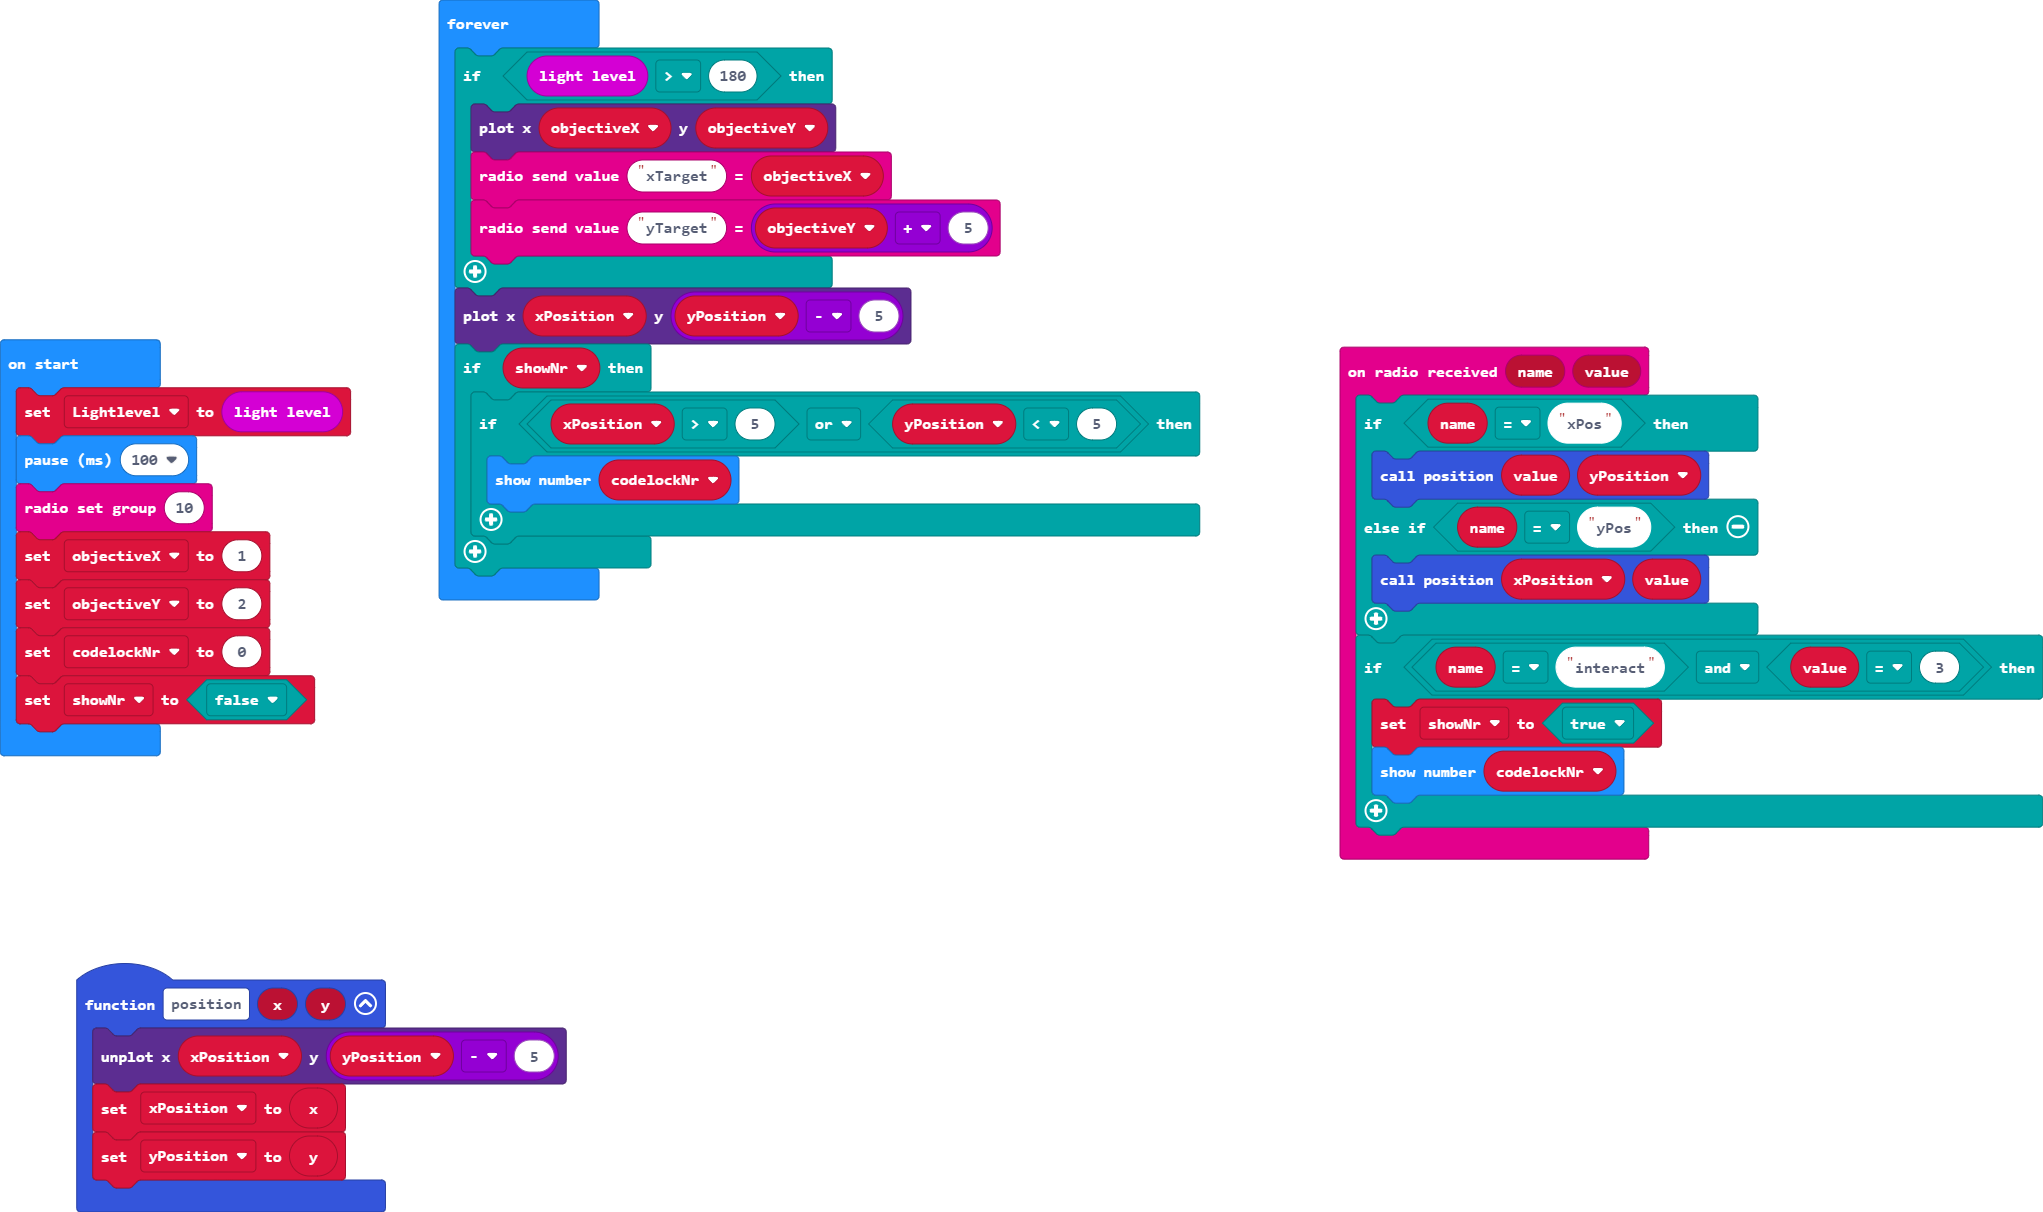
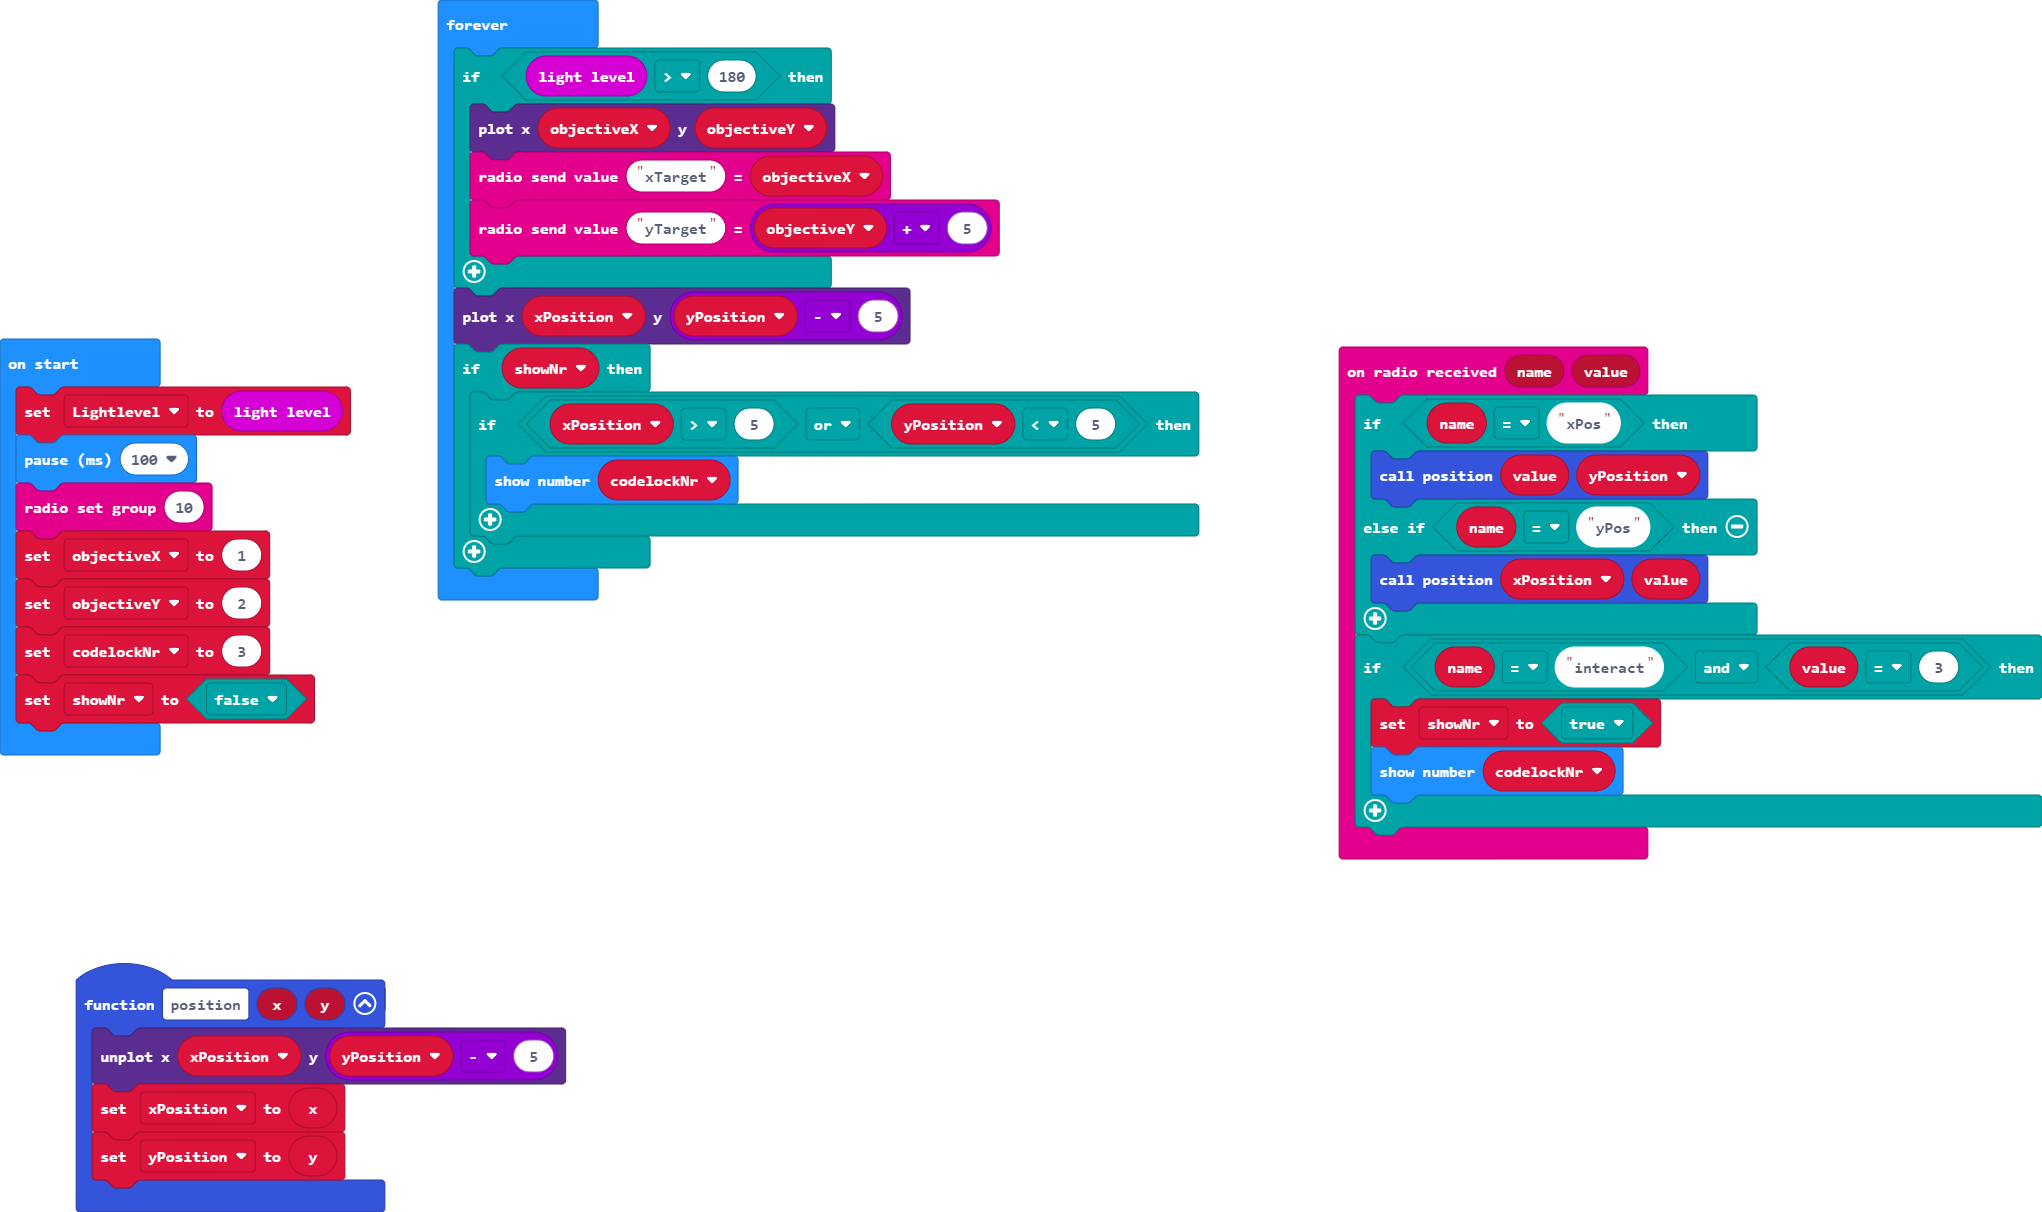
Update main.blocks, main.ts

diff --git a/main.ts b/main.ts
@@ -23,7 +23,7 @@ basic.pause(100)
 radio.setGroup(10)
 let objectiveX = 1
 let objectiveY = 2
-codelockNr = 0
+codelockNr = 3
 showNr = false
 basic.forever(function () {
     if (input.lightLevel() > 180) {
